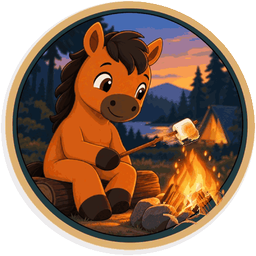
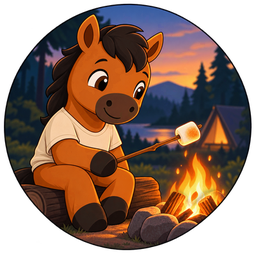
[fast-deploy] [release-gate-repair] [homework-release] Complete campfire media versioning

diff --git a/schedule-system.html b/schedule-system.html
@@ -2283,7 +2283,7 @@
         </button>
       </div>
       <button class="homework-campfire-mascot" type="button" data-homework-campfire-toggle aria-label="播放 Eddy 營火動畫" aria-pressed="false">
-        <img src="homework-eddy/poster.png?v=20261106-shirtless3" width="68" height="68" alt="Eddy 放鬆地坐在營火旁烤棉花糖">
+        <img src="homework-eddy/poster-v2.png?v=20261106-shirtless4" width="68" height="68" alt="Eddy 放鬆地坐在營火旁烤棉花糖">
       </button>
       <div class="header-actions edmund-system-header__actions">
         <span class="connection-pill" data-connection-status data-state="connecting">正在連接</span>

diff --git a/homework-eddy-toggle.js b/homework-eddy-toggle.js
@@ -4,7 +4,7 @@
   const image = button.querySelector('img');
   const gif = 'homework-eddy/eddy-campfire-v2.gif?v=20261106-shirtless4';
   const stills = Array.from({ length: 5 }, (_, index) =>
-    `homework-eddy/stills/eddy-${String(index + 1).padStart(2, '0')}.png?v=20261106-shirtless3`
+    `homework-eddy/stills/eddy-${String(index + 1).padStart(2, '0')}-v2.png?v=20261106-shirtless4`
   );
   const key = 'edmund-homework-eddy-playing';
   let playing = !window.matchMedia('(prefers-reduced-motion: reduce)').matches;

diff --git a/tools/mascot-art/homework/build_campfire.py b/tools/mascot-art/homework/build_campfire.py
@@ -39,8 +39,8 @@ encoded=[]
 for frame in frames:
  p=frame.convert('RGB').quantize(palette=palette,dither=Image.Dither.NONE);p.putpalette(pal);p.paste(255,mask=alpha.point(lambda v:255 if v<128 else 0));encoded.append(p)
 encoded[0].save(OUT/'eddy-campfire-v2.gif',save_all=True,append_images=encoded[1:],duration=40,loop=0,transparency=255,disposal=1,optimize=False)
-frames[0].resize((512,512),Image.Resampling.LANCZOS).save(OUT/'poster.png')
-for k,i in enumerate([0,24,29,72,111]):frames[i].resize((256,256),Image.Resampling.LANCZOS).save(OUT/'stills'/f'eddy-{k+1:02}.png')
+frames[0].resize((512,512),Image.Resampling.LANCZOS).save(OUT/'poster-v2.png')
+for k,i in enumerate([0,24,29,72,111]):frames[i].resize((256,256),Image.Resampling.LANCZOS).save(OUT/'stills'/f'eddy-{k+1:02}-v2.png')
 contact=Image.new('RGB',(400*4,440*2),'#e6ece7')
 for k,i in enumerate([0,24,29,40,72,111,140,159]):
  contact.paste(frames[i],((k%4)*400,(k//4)*440),frames[i]);ImageDraw.Draw(contact).text(((k%4)*400+12,(k//4)*440+405),f'{i*.04:.2f}s',fill='black')
